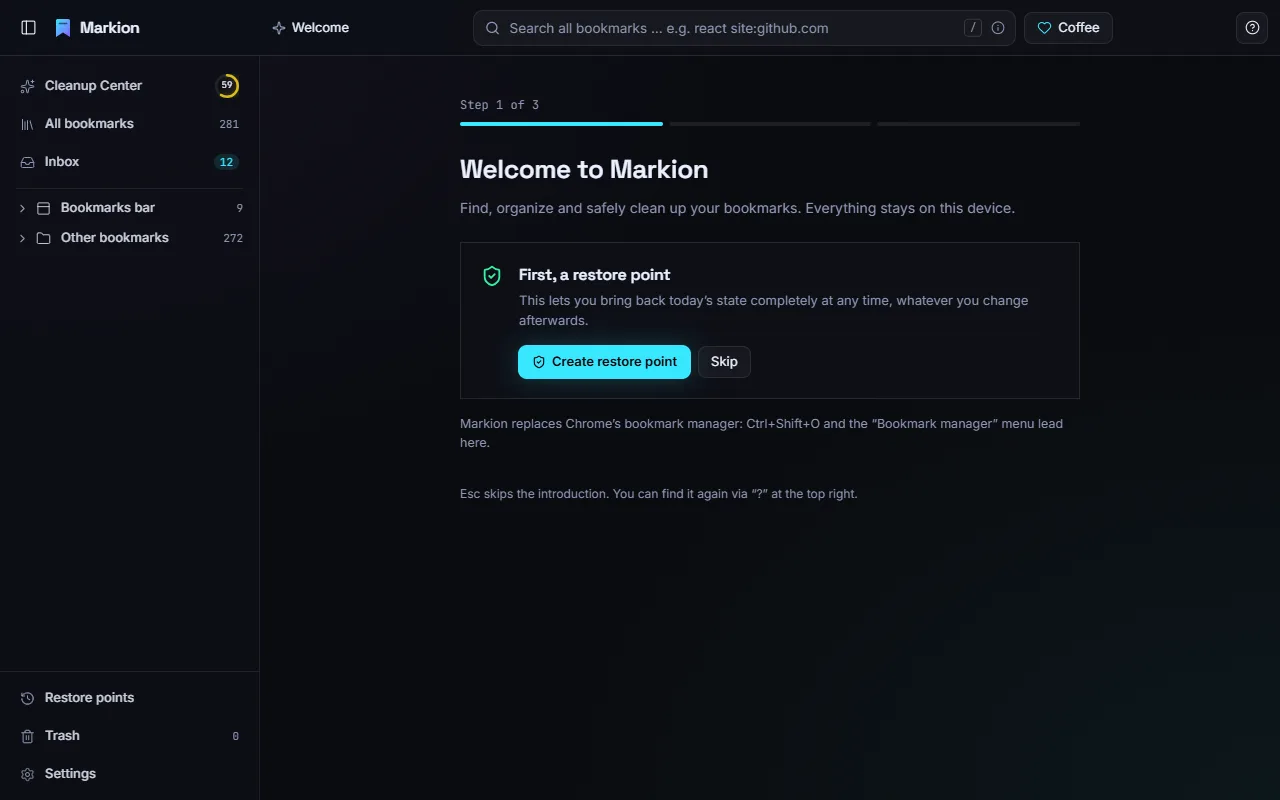
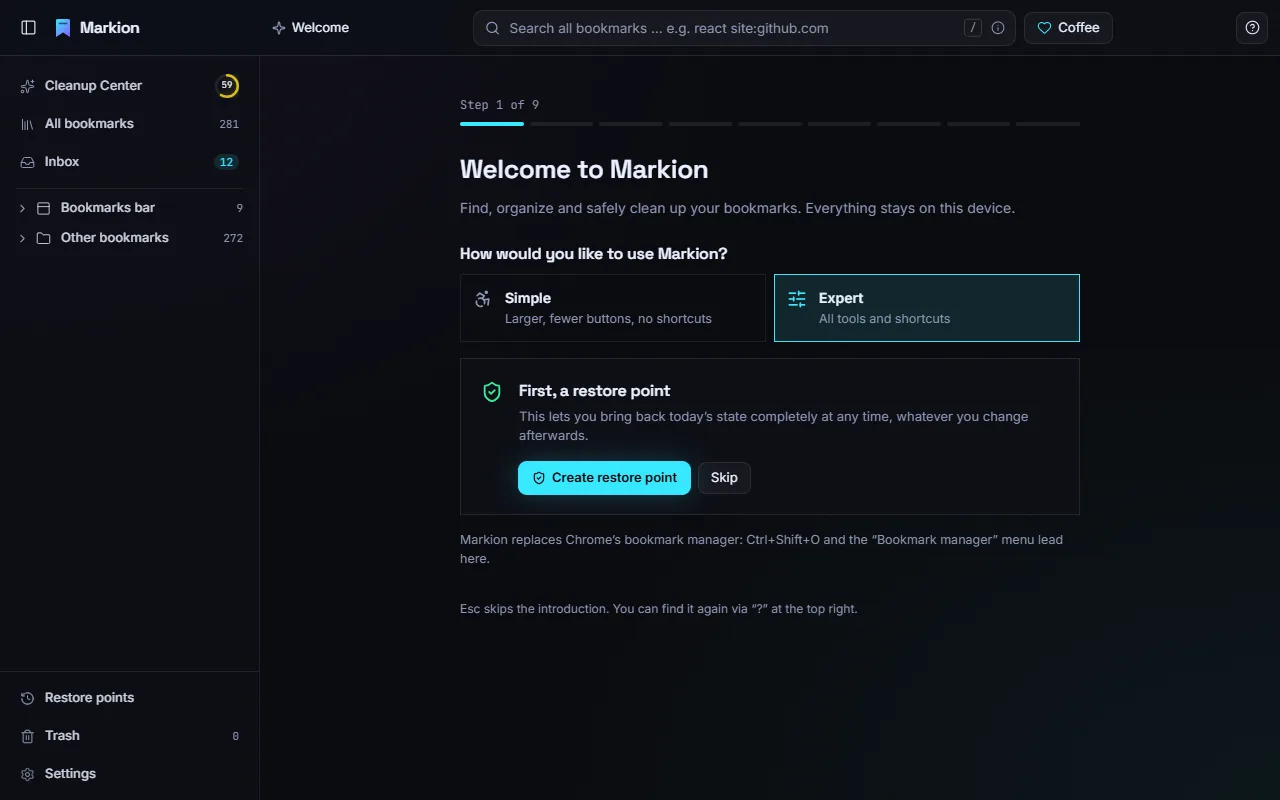
User guide and privacy policy 1.5.0
Guide: quick save from the icon, address bar search, saved searches,
simple mode, themes, and a Quick start with the six first steps of
the new introduction. Privacy: activeTab and the address bar keyword m.

diff --git a/help/index.html b/help/index.html
@@ -253,6 +253,7 @@
           Markion
         </div>
         <ol>
+          <li><a href="#quickstart">Quick start</a></li>
           <li><a href="#getting-started">Getting started</a></li>
           <li><a href="#layout">The workspace</a></li>
           <li><a href="#search">Finding bookmarks</a></li>
@@ -269,11 +270,113 @@
 
       <main>
         <h1>Markion User Guide</h1>
-        <p class="version">Version 1.4.0</p>
+        <p class="version">Version 1.5.0</p>
         <p class="lead">
           Markion replaces Chrome’s bookmark manager with a fast, keyboard-first workspace. It helps
           you find bookmarks in a heartbeat, reorganize them, clean them up without losing anything
           and keep them in order. Everything runs on your device.
+        </p>
+
+        <h2 id="quickstart">Quick start: Markion in five minutes</h2>
+        <p>
+          Six things to try first. The <a href="#getting-started">introduction</a> on the first
+          start shows each of them on its own page, with a picture that marks where to find it. To
+          see it again, click <strong>?</strong> at the top right and choose
+          <strong>Show introduction</strong>, or press <kbd>G</kbd> then <kbd>W</kbd>.
+        </p>
+        <ol>
+          <li>
+            <strong>Find bookmarks.</strong> Just start typing: the list filters right away, with
+            typos forgiven. <kbd>Ctrl</kbd>+<kbd>K</kbd> opens the command palette for bookmarks,
+            folders and actions. More in <a href="#search">Finding bookmarks</a>.
+            <figure>
+              <img
+                src="img/first-find.webp"
+                alt="The search field at the top of Markion, framed, with search results below"
+                loading="lazy"
+                width="800"
+                height="500"
+              />
+            </figure>
+          </li>
+          <li>
+            <strong>Save a page.</strong> Click the Markion icon in Chrome’s toolbar (or press
+            <kbd>Alt</kbd>+<kbd>Shift</kbd>+<kbd>B</kbd>). The window suggests the folders that fit
+            best; press <kbd>Enter</kbd> or click one. More in
+            <a href="#quick-save">Search and save from the Markion icon</a>.
+            <figure>
+              <img
+                src="img/first-save.webp"
+                alt="The Markion icon in Chrome’s toolbar, framed, with the save window below it"
+                loading="lazy"
+                width="800"
+                height="500"
+              />
+            </figure>
+          </li>
+          <li>
+            <strong>Search from the address bar.</strong> Type <kbd>m</kbd>, a space and your search
+            into Chrome’s address bar. Markion suggests matching bookmarks right there, without
+            opening Markion. More in <a href="#address-bar">Search from Chrome’s address bar</a>.
+            <figure>
+              <img
+                src="img/first-omnibox.webp"
+                alt="Chrome’s address bar with m and a search, framed, with Markion’s suggestions below"
+                loading="lazy"
+                width="800"
+                height="500"
+              />
+            </figure>
+          </li>
+          <li>
+            <strong>File bookmarks.</strong> New bookmarks land in the inbox (<kbd>G</kbd> then
+            <kbd>I</kbd>). Press <kbd>M</kbd> to move one into a folder or <kbd>H</kbd> to leave it
+            where it is; the sorting assistant (<kbd>G</kbd> then <kbd>S</kbd>) suggests a folder
+            for each. More in <a href="#inbox">Inbox and sorting assistant</a>.
+            <figure>
+              <img
+                src="img/first-file.webp"
+                alt="The inbox, with the Inbox entry in the sidebar framed"
+                loading="lazy"
+                width="800"
+                height="500"
+              />
+            </figure>
+          </li>
+          <li>
+            <strong>Clean up.</strong> The Cleanup Center (<kbd>G</kbd> then <kbd>C</kbd>) suggests
+            unused and duplicate bookmarks. You decide for each: keep, archive or delete. Its entry
+            in the sidebar also shows the order score. More in
+            <a href="#cleanup">Cleanup Center</a>.
+            <figure>
+              <img
+                src="img/first-cleanup.webp"
+                alt="The Cleanup Center, with its sidebar entry and the order score framed"
+                loading="lazy"
+                width="800"
+                height="500"
+              />
+            </figure>
+          </li>
+          <li>
+            <strong>Undo anything.</strong> <kbd>Ctrl</kbd>+<kbd>Z</kbd> undoes any action, even
+            after a restart, and every action shows a notice with <strong>Undo</strong>. Deleted
+            bookmarks stay in the trash for 30 days, and restore points bring back a whole earlier
+            state. More in <a href="#safety">Safety net</a>.
+            <figure>
+              <img
+                src="img/first-undo.webp"
+                alt="The notice after deleting a bookmark, with the Undo button framed"
+                loading="lazy"
+                width="800"
+                height="500"
+              />
+            </figure>
+          </li>
+        </ol>
+        <p>
+          In the <a href="#simple-mode">simple mode</a> everything works with the mouse; the
+          introduction then explains the steps without shortcuts.
         </p>
 
         <h2 id="getting-started">Getting started</h2>
@@ -282,12 +385,16 @@
           open it with <kbd>Ctrl</kbd>+<kbd>Shift</kbd>+<kbd>O</kbd>, through Chrome’s menu
           “Bookmarks and lists → Bookmark manager”, or with <kbd>Alt</kbd>+<kbd>B</kbd> (you can
           change this shortcut in Settings). If Markion is already open, it switches to that tab
-          instead of opening a second one.
+          instead of opening a second one. The Markion icon in Chrome’s toolbar opens a small window
+          to search your bookmarks or <a href="#quick-save">save the current page</a>.
         </p>
         <p>
-          On the first start, a short introduction creates a first restore point, shows how tidy
-          your collection is and lists the most important shortcuts. You can skip it with
-          <kbd>Esc</kbd>.
+          On the first start, a short introduction lets you choose between the
+          <a href="#simple-mode">simple and the expert mode</a> and creates a first restore point.
+          It then shows how tidy your collection is and explains the order score, walks you through
+          the six <a href="#quickstart">first steps</a> and ends with the most important shortcuts
+          and a link to this guide. <strong>Back</strong> and <strong>Next</strong> move between the
+          pages; <kbd>Esc</kbd> skips the rest.
         </p>
         <div class="note">
           <p>
@@ -512,6 +619,38 @@
           Press <kbd>P</kbd> to pin a bookmark or folder. Pinned items are easy to find with
           <code>is:pinned</code>, and the Cleanup Center never suggests them.
         </p>
+        <h3 id="saved-searches">Saved searches</h3>
+        <p>
+          Searches you use often can live in the sidebar, like smart folders. Type a search, for
+          example <code>site:sharepoint.com used:&lt;30d</code>, and click the star in the search
+          field or press <kbd>Shift</kbd>+<kbd>F</kbd>. Give it a name and press <kbd>Enter</kbd>.
+        </p>
+        <ul>
+          <li>
+            Click a saved search to show all bookmarks that match it; the number next to it is kept
+            up to date.
+          </li>
+          <li>
+            <kbd>G</kbd> then <kbd>1</kbd> to <kbd>9</kbd> opens the first to ninth saved search.
+            The command palette also finds saved searches by name.
+          </li>
+          <li>
+            The <strong>…</strong> menu (or a right-click) renames, edits, moves or removes a saved
+            search. On a focused entry: <kbd>F2</kbd> renames, <kbd>Del</kbd> removes,
+            <kbd>Alt</kbd>+<kbd>↑</kbd>/<kbd>↓</kbd> moves it.
+          </li>
+          <li>Saved searches are part of the backup export.</li>
+        </ul>
+        <h3 id="address-bar">Search from Chrome’s address bar</h3>
+        <p>
+          Type <kbd>m</kbd>, a space and your search into Chrome’s address bar. Markion suggests up
+          to six matching bookmarks with folder and site; all search operators work there too. Pick
+          one with the arrow keys and press <kbd>Enter</kbd> to open it (with <kbd>Alt</kbd>+<kbd
+            >Enter</kbd
+          >
+          in a new tab). Pressing <kbd>Enter</kbd> on your text itself opens Markion with that
+          search.
+        </p>
 
         <h2 id="organize">Organizing</h2>
         <h3>Select and move</h3>
@@ -597,6 +736,51 @@
           Every one of these actions can be undone with <kbd>Ctrl</kbd>+<kbd>Z</kbd>. After each
           action, a message with an <strong>Undo</strong> button stays visible for 8 seconds.
         </p>
+
+        <h3 id="quick-save">Search and save from the Markion icon</h3>
+        <p>
+          Click the Markion icon in Chrome’s toolbar or press
+          <kbd>Alt</kbd>+<kbd>Shift</kbd>+<kbd>B</kbd>. A small window opens with a search field at
+          the top. Start typing to find a bookmark: the matches replace the rest of the window,
+          <kbd>Enter</kbd> opens the selected one, <kbd>Esc</kbd> clears the search.
+        </p>
+        <figure class="small">
+          <img
+            src="img/popup.webp"
+            alt="The Markion window over a web page: search field, title, address with the Full URL option and three suggested folders"
+            loading="lazy"
+            width="380"
+            height="571"
+          />
+        </figure>
+        <p>
+          Below the empty search field you save the current page. The window shows its title
+          (already cleaned up), its address and the three folders that fit best, with the reason.
+          Press <kbd>Alt</kbd>+<kbd>1</kbd>, <kbd>2</kbd> or <kbd>3</kbd>, or <kbd>Enter</kbd> for
+          the first one, and the page is saved there. Right after saving you can undo it.
+        </p>
+        <ul>
+          <li>
+            You can edit the title and the address before saving. If the address has parameters (the
+            part after <code>?</code>), uncheck <strong>Full URL with parameters</strong> to save it
+            without them; check it again to get them back.
+          </li>
+          <li>
+            <strong>Other folder …</strong> shows your folder tree, opened at the best suggestion.
+            Click through it or type to search; matches appear with their parent folders. Arrow keys
+            move, <kbd>→</kbd>/<kbd>←</kbd> open and close a folder, <kbd>Enter</kbd> saves,
+            <kbd>Esc</kbd> goes back to the suggestions. <strong>To the inbox</strong> saves it for
+            later sorting and stays available while you look for a folder.
+          </li>
+          <li>
+            If the page is already saved, the window shows where. The suggestions then move it, and
+            you can delete it or save it again anyway. If only a bookmark with the same address but
+            other parameters exists, the window points it out.
+          </li>
+          <li>
+            On pages that cannot be saved (such as Chrome’s new tab page), the window only searches.
+          </li>
+        </ul>
 
         <h2 id="inbox">Inbox and sorting assistant</h2>
         <p>
@@ -954,8 +1138,15 @@
         </p>
         <ul>
           <li>
-            <strong>Theme</strong>: Dark Side (default), Snow Glow (light), Cyber Phunk or Miami
-            Nights. The change applies right away.
+            <strong>Mode</strong>: <a href="#simple-mode">simple or expert</a>, and the text size
+            (normal, large, extra large) for both modes.
+          </li>
+          <li>
+            <strong>Theme</strong>: 18 color themes, grouped into dark and light: Dark Side
+            (default), Cyber Phunk, Miami Nights, Iceland, Deep Sea, Tangerine Night, Dusk,
+            Blueberry, Navy &amp; Gold, Neon Nights, Synthwave, Green CRT, Amber CRT, and the light
+            Snow Glow, Highland Mist, Glacier, Greenhouse and Cobalt. All meet the contrast
+            requirements. The change applies right away.
           </li>
           <li>
             <strong>Behavior and appearance</strong>: whether <kbd>Enter</kbd> opens a bookmark in
@@ -1008,6 +1199,27 @@
           />
           <figcaption>The four themes.</figcaption>
         </figure>
+
+        <h2 id="simple-mode">Simple and expert mode</h2>
+        <p>
+          The first setting chooses how much Markion shows at once. You can switch any time; nothing
+          is lost.
+        </p>
+        <ul>
+          <li>
+            <strong>Simple</strong>: larger text and rows, only title and site in the list, list or
+            cards, and the main actions (open, rename, move, delete, new folder). No scores and no
+            shortcut hints; buttons explain themselves when you point at them. “Clean up” shows only
+            duplicates and long unused bookmarks, and the undo message stays 15 seconds. Restore
+            points are in the settings.
+          </li>
+          <li><strong>Expert</strong>: everything described in this guide.</li>
+        </ul>
+        <p>
+          The text size (normal, large, extra large) works in both modes; switching to simple sets
+          it to large. All keyboard shortcuts keep working in the simple mode, they are only not
+          shown.
+        </p>
 
         <h2 id="shortcuts">Keyboard shortcuts</h2>
         <p>
@@ -1074,6 +1286,10 @@
               <td><kbd>Shift</kbd>+<kbd>I</kbd></td>
               <td>Keep everything in the inbox where it is</td>
             </tr>
+            <tr>
+              <td><kbd>G</kbd> then <kbd>1</kbd> … <kbd>9</kbd></td>
+              <td>First to ninth saved search</td>
+            </tr>
           </tbody>
         </table>
         <h3>General and view</h3>
@@ -1086,6 +1302,22 @@
             <tr>
               <td><kbd>/</kbd></td>
               <td>Filter the list (search field)</td>
+            </tr>
+            <tr>
+              <td><kbd>Shift</kbd>+<kbd>F</kbd></td>
+              <td>Save the current search in the sidebar</td>
+            </tr>
+            <tr>
+              <td><kbd>Alt</kbd>+<kbd>Shift</kbd>+<kbd>B</kbd></td>
+              <td>Save the current page (in any tab, changeable in Chrome)</td>
+            </tr>
+            <tr>
+              <td><kbd>Alt</kbd>+<kbd>1</kbd>–<kbd>3</kbd> in the Markion window</td>
+              <td>Save the page in the first, second or third suggested folder</td>
+            </tr>
+            <tr>
+              <td><kbd>m</kbd> <kbd>Space</kbd> in the address bar</td>
+              <td>Search bookmarks from Chrome’s address bar</td>
             </tr>
             <tr>
               <td><kbd>Ctrl</kbd>+<kbd>Z</kbd></td>

diff --git a/privacy/index.html b/privacy/index.html
@@ -71,7 +71,7 @@
       <article lang="en">
         <h1>Privacy Policy for Markion</h1>
         <p class="meta">
-          Last updated: October 3, 2026 · <a href="#de">Deutsche Version weiter unten</a>
+          Last updated: October 24, 2026 · <a href="#de">Deutsche Version weiter unten</a>
         </p>
         <p>
           Markion is a Google Chrome extension for finding, organizing and cleaning up your
@@ -154,6 +154,16 @@
             <code>alarms</code>: local maintenance every few hours (restore points, emptying the
             trash).
           </li>
+          <li>
+            <code>activeTab</code>: only when you click the Markion icon (or press Alt+Shift+B),
+            read the title and address of the current tab so the small window can save it as a
+            bookmark. Nothing is read without that click, and nothing is sent anywhere.
+          </li>
+          <li>
+            Address bar keyword <code>m</code> (no permission): when you type <code>m</code> and a
+            space in Chrome's address bar, Chrome passes what you type next to Markion, which
+            searches your bookmarks locally.
+          </li>
           <li><code>history</code> (optional): see “Optional features”.</li>
           <li>Access to all websites (optional): only for the link check.</li>
         </ul>
@@ -175,7 +185,7 @@
 
       <article lang="de" id="de" class="lang">
         <h1>Datenschutzerklärung für Markion</h1>
-        <p class="meta">Stand: 3. Oktober 2026</p>
+        <p class="meta">Stand: 24. Oktober 2026</p>
         <p>
           Markion ist eine Erweiterung für Google Chrome, mit der du Lesezeichen findest, ordnest
           und aufräumst. Sie ersetzt Chromes Lesezeichen-Manager. Diese Erklärung beschreibt, welche
@@ -262,6 +272,16 @@
           <li>
             <code>alarms</code>: lokale Wartung alle paar Stunden (Sicherungspunkte, Papierkorb
             leeren).
+          </li>
+          <li>
+            <code>activeTab</code>: nur wenn du auf das Markion-Icon klickst (oder Alt+Umschalt+B
+            drückst), Titel und Adresse des aktuellen Tabs lesen, damit das kleine Fenster sie als
+            Lesezeichen speichern kann. Ohne diesen Klick wird nichts gelesen und nichts gesendet.
+          </li>
+          <li>
+            Schlüsselwort <code>m</code> in der Adresszeile (keine Berechtigung): Tippst du
+            <code>m</code> und Leertaste in Chromes Adresszeile, gibt Chrome das Weitere an Markion,
+            das deine Lesezeichen lokal durchsucht.
           </li>
           <li><code>history</code> (optional): siehe „Optionale Funktionen“.</li>
           <li>Zugriff auf alle Websites (optional): nur für den Link-Check.</li>
